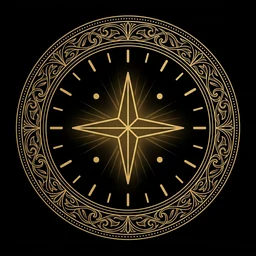
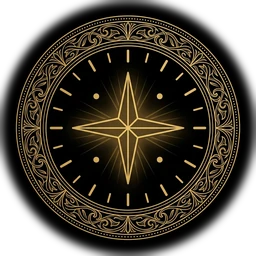
fix(solara): Map メニューチップの OVERFLOW 修正 + アイコン大型化 + 黒枠透明化
オーナー実機確認 (2026-05-10) フィードバック対応:

## 修正点
1. BOTTOM OVERFLOWED 0.8px 修正
   - vertical padding 8 -> 6
   - SizedBox 2 -> 1
   - 合計高さ 54.4 -> 53 (余裕 1.4px 確保)

2. アイコン大型化 (要望: アイコンが小さい)
   - Image size 22 -> 28 (約 27% UP)
   - 🌱 emoji も 18 -> 28 に統一

3. ラベル英字化 (要望: 下のメニューと統一感)
   - 運勢方位 -> Fortune
   - LOCATIONS -> Locations
   - 予報 -> Forecast
   - fontSize 12 -> 10、letterSpacing 0.6 -> 0.3

4. 黒枠透明化 (要望: 画像の黒枠が見えている)
   - convert_menu_icons_to_webp.py に円形 alpha マスク追加
     (radius 49.5%、Gaussian feather 4px、4x supersampling)
   - 全 10 WebP を再生成 -> 四隅が透明 -> チップ背景と自然になじむ
   - ファイルサイズ 198KB -> 253KB (alpha channel 分、許容範囲)

Changed region(s): [[0.0, 0.0, 1.0, 1.0]]

diff --git a/apps/solara/lib/screens/map/map_menu_chips.dart b/apps/solara/lib/screens/map/map_menu_chips.dart
@@ -77,17 +77,17 @@ class MapMenuChips extends StatelessWidget {
               ),
               _StaticChip(
                 iconAsset: 'fortune',
-                label: '運勢方位',
+                label: 'Fortune',
                 onTap: onFortuneTap,
               ),
               _StaticChip(
                 iconAsset: 'location',
-                label: 'LOCATIONS',
+                label: 'Locations',
                 onTap: onLocationsTap,
               ),
               _StaticChip(
                 iconAsset: 'forecast',
-                label: '予報',
+                label: 'Forecast',
                 onTap: onForecastTap,
               ),
             ],
@@ -119,7 +119,7 @@ class _StaticChip extends StatelessWidget {
           behavior: HitTestBehavior.opaque,
           onTap: onTap,
           child: Container(
-            padding: const EdgeInsets.symmetric(vertical: 8),
+            padding: const EdgeInsets.symmetric(vertical: 6),
             decoration: BoxDecoration(
               borderRadius: BorderRadius.circular(10),
               border: Border.all(color: const Color(0x33C9A84C)),
@@ -132,25 +132,29 @@ class _StaticChip extends StatelessWidget {
                 ],
               ),
             ),
+            // 寸法 (2026-05-10 第二弾調整):
+            //   padding 6 + Image 28 + spacing 1 + Text fontSize 10 (line height ~12) + padding 6 = 53
+            //   旧 54.4 構成で 0.8px OVERFLOW していたため縦幅を ~1.4px 詰めた。
+            //   ラベルは英字化 (Fortune/Locations/Forecast) で下部 NavBar と統一感を出す。
             child: Column(
               mainAxisSize: MainAxisSize.min,
               children: [
                 Image.asset(
                   'assets/menu_icons/$iconAsset.webp',
-                  width: 22,
-                  height: 22,
+                  width: 28,
+                  height: 28,
                   fit: BoxFit.contain,
                   filterQuality: FilterQuality.medium,
                 ),
-                const SizedBox(height: 2),
+                const SizedBox(height: 1),
                 Text(
                   label,
                   maxLines: 1,
                   overflow: TextOverflow.ellipsis,
                   style: const TextStyle(
-                    fontSize: 12,
+                    fontSize: 10,
                     color: Color(0xFFC9A84C),
-                    letterSpacing: 0.6,
+                    letterSpacing: 0.3,
                     fontWeight: FontWeight.w500,
                   ),
                 ),
@@ -231,45 +235,47 @@ class _DailyTransitChip extends StatelessWidget {
                 ),
               Positioned.fill(
                 child: Container(
-                  padding: const EdgeInsets.symmetric(vertical: 8),
+                  padding: const EdgeInsets.symmetric(vertical: 6),
                   alignment: Alignment.center,
                   decoration: BoxDecoration(
                     borderRadius: BorderRadius.circular(10),
                     border: Border.all(color: borderColor, width: unseen ? 1.4 : 1),
                     gradient: fillGradient,
                   ),
+                  // Static chip と完全一致する寸法:
+                  //   padding 6 + Image 28 + spacing 1 + Text fontSize 10 (~12) + padding 6 = 53
                   child: Column(
                   mainAxisSize: MainAxisSize.min,
                   children: [
                     // 表示分岐 (2026-05-10):
-                    //  - disabled (プロフィール未設定): 🌱 emoji (現状維持)
+                    //  - disabled (プロフィール未設定): 🌱 emoji (28pt 表示)
                     //  - unseen (未開封): unsealed.webp (9芒星アンティーク章)
                     //    → 答えがまだ見えていないことを象徴。halo は外側で別途発光
                     //  - seen (開封済): topCategory に応じた CategoryIcon
                     //    → 今日の追い風カテゴリを示す
                     if (disabled)
-                      const Text('🌱', style: TextStyle(fontSize: 18))
+                      const Text('🌱', style: TextStyle(fontSize: 28))
                     else if (unseen)
                       Image.asset(
                         'assets/menu_icons/unsealed.webp',
-                        width: 22,
-                        height: 22,
+                        width: 28,
+                        height: 28,
                         fit: BoxFit.contain,
                         filterQuality: FilterQuality.medium,
                       )
                     else
-                      CategoryIcon(kind: iconKind, size: 22),
-                    const SizedBox(height: 2),
+                      CategoryIcon(kind: iconKind, size: 28),
+                    const SizedBox(height: 1),
                     Text(
                       'Daily',
                       maxLines: 1,
                       overflow: TextOverflow.ellipsis,
                       style: TextStyle(
-                        fontSize: 12,
+                        fontSize: 10,
                         color: unseen
                             ? const Color(0xFFFFE99A)
                             : const Color(0xFFC9A84C),
-                        letterSpacing: 0.6,
+                        letterSpacing: 0.3,
                         fontWeight: FontWeight.w500,
                       ),
                     ),

diff --git a/apps/solara/mockup/convert_menu_icons_to_webp.py b/apps/solara/mockup/convert_menu_icons_to_webp.py
@@ -1,6 +1,10 @@
 """
 Convert menu icons (1024x1024 PNG) to compact WebP (256x256) for Flutter assets.
 
+Adds a feathered circular alpha mask so the four black corners of each
+emblem are transparent. This prevents the chip background gradient from
+being interrupted by hard black squares.
+
 Source: apps/solara/mockup/share-assets/menu-icons/
 Dest:   apps/solara/assets/menu_icons/
 
@@ -18,7 +22,7 @@ kept in source as backup but NOT copied to assets):
   forecast.png            ->  forecast.webp
 """
 from pathlib import Path
-from PIL import Image
+from PIL import Image, ImageDraw, ImageFilter
 
 SRC_DIR = Path(__file__).parent / "share-assets" / "menu-icons"
 DST_DIR = Path(__file__).resolve().parents[1] / "assets" / "menu_icons"
@@ -38,28 +42,66 @@ MAPPING = {
 }
 
 TARGET_SIZE = 256
-QUALITY = 88
+QUALITY = 90  # alpha 入りで少し品質を上げる
 
-print(f"Source: {SRC_DIR}")
-print(f"Dest:   {DST_DIR}\n")
+# Circular mask params
+# 全 emblem は外周フレームを正円で持つので、半径 ~48% のマスクで
+# フレームちょうど内側まで残し、四隅の黒は完全透明にする。
+# feather (羽根ぼかし) で境界をスムーズに。
+MASK_RADIUS_RATIO = 0.495   # 中心から半径 = サイズ * 0.495
+FEATHER_PIXELS = 4          # マスクのぼかし量 (px @ 256)
 
-total_src = 0
-total_dst = 0
-for src_name, dst_name in MAPPING.items():
-    src = SRC_DIR / src_name
-    dst = DST_DIR / dst_name
-    if not src.exists():
-        print(f"  MISS: {src_name}")
-        continue
-    img = Image.open(src).convert("RGB")
-    img = img.resize((TARGET_SIZE, TARGET_SIZE), Image.LANCZOS)
-    img.save(str(dst), "WEBP", quality=QUALITY, method=6)
-    src_kb = src.stat().st_size // 1024
-    dst_kb = dst.stat().st_size // 1024
-    total_src += src_kb
-    total_dst += dst_kb
-    print(f"  OK: {src_name} ({src_kb}KB) -> {dst_name} ({dst_kb}KB)")
 
-print(f"\nTotal: {total_src}KB -> {total_dst}KB "
-      f"({100 * total_dst // max(total_src, 1)}% of original)")
-print("Done.")
+def make_circular_mask(size: int) -> Image.Image:
+    """Returns a feathered circular alpha mask (mode L)."""
+    # 高解像度で描画して supersampling 風に
+    upsample = 4
+    big = size * upsample
+    mask = Image.new("L", (big, big), 0)
+    draw = ImageDraw.Draw(mask)
+    cx = cy = big / 2
+    r = big * MASK_RADIUS_RATIO
+    draw.ellipse(
+        [cx - r, cy - r, cx + r, cy + r],
+        fill=255,
+    )
+    mask = mask.resize((size, size), Image.LANCZOS)
+    mask = mask.filter(ImageFilter.GaussianBlur(radius=FEATHER_PIXELS))
+    return mask
+
+
+def main() -> None:
+    print(f"Source: {SRC_DIR}")
+    print(f"Dest:   {DST_DIR}\n")
+
+    mask = make_circular_mask(TARGET_SIZE)
+
+    total_src = 0
+    total_dst = 0
+    for src_name, dst_name in MAPPING.items():
+        src = SRC_DIR / src_name
+        dst = DST_DIR / dst_name
+        if not src.exists():
+            print(f"  MISS: {src_name}")
+            continue
+        img = Image.open(src).convert("RGB")
+        img = img.resize((TARGET_SIZE, TARGET_SIZE), Image.LANCZOS)
+        img = img.convert("RGBA")
+        # Apply circular alpha mask (replace, not multiply, since RGB is opaque)
+        img.putalpha(mask)
+        img.save(str(dst), "WEBP", quality=QUALITY, method=6)
+        src_kb = src.stat().st_size // 1024
+        dst_kb = dst.stat().st_size // 1024
+        total_src += src_kb
+        total_dst += dst_kb
+        print(f"  OK: {src_name} ({src_kb}KB) -> {dst_name} ({dst_kb}KB)")
+
+    print(
+        f"\nTotal: {total_src}KB -> {total_dst}KB "
+        f"({100 * total_dst // max(total_src, 1)}% of original)"
+    )
+    print("Done.")
+
+
+if __name__ == "__main__":
+    main()
